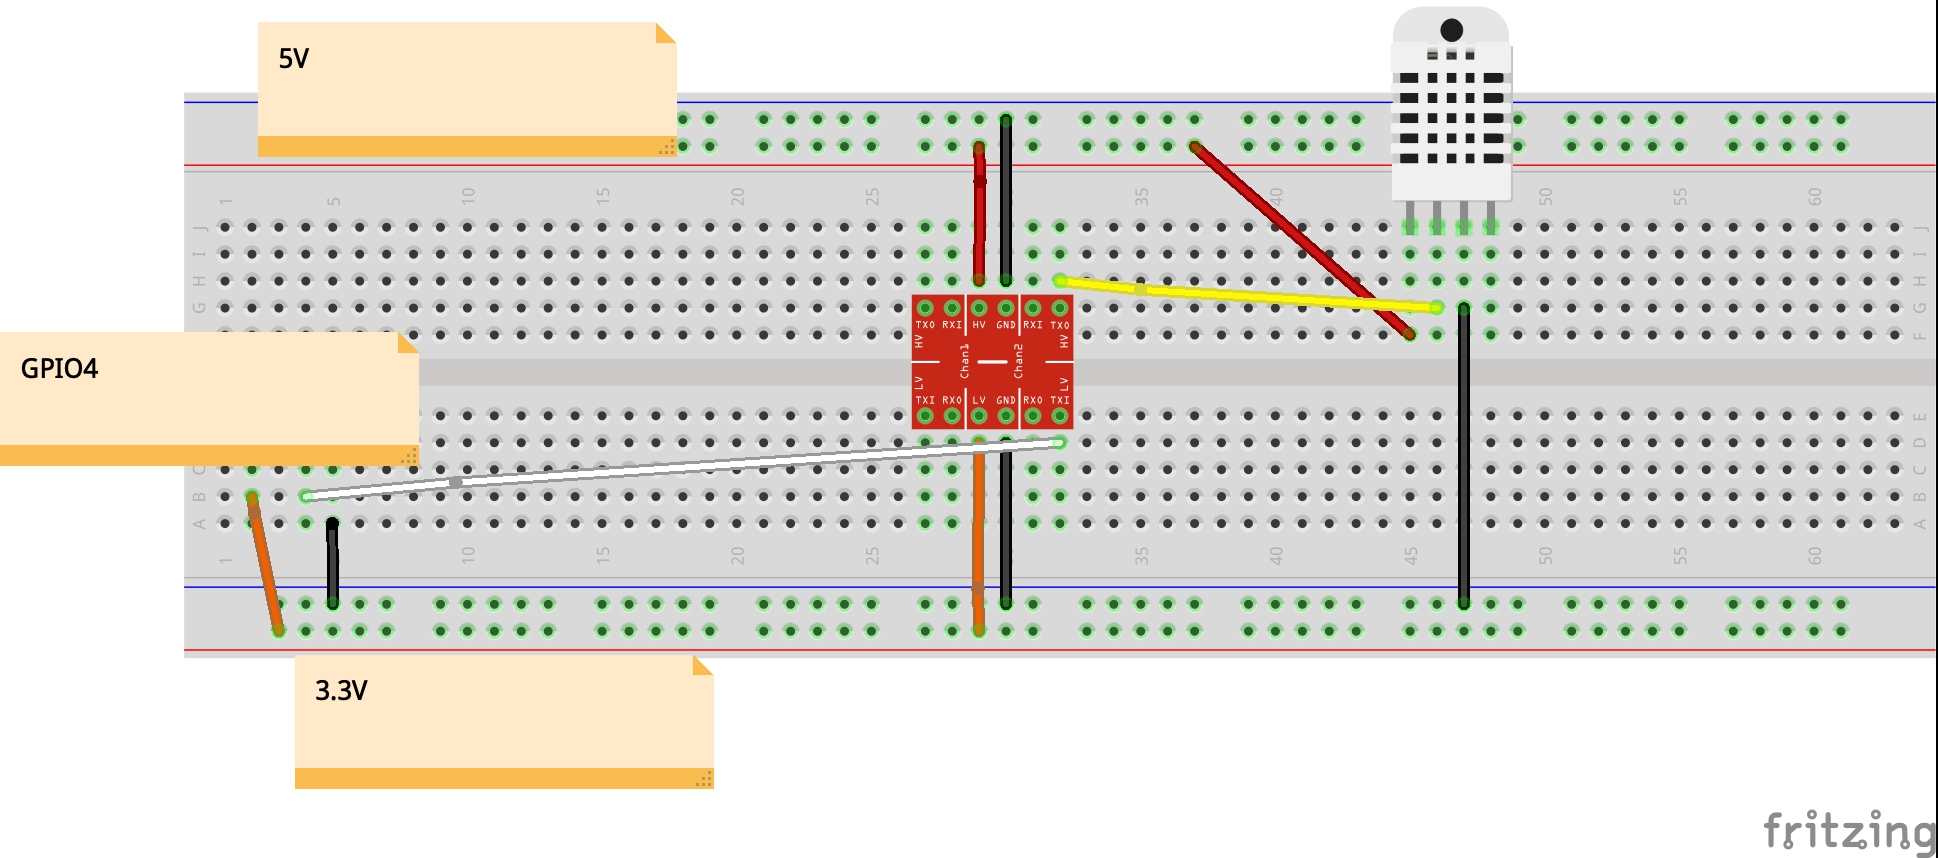
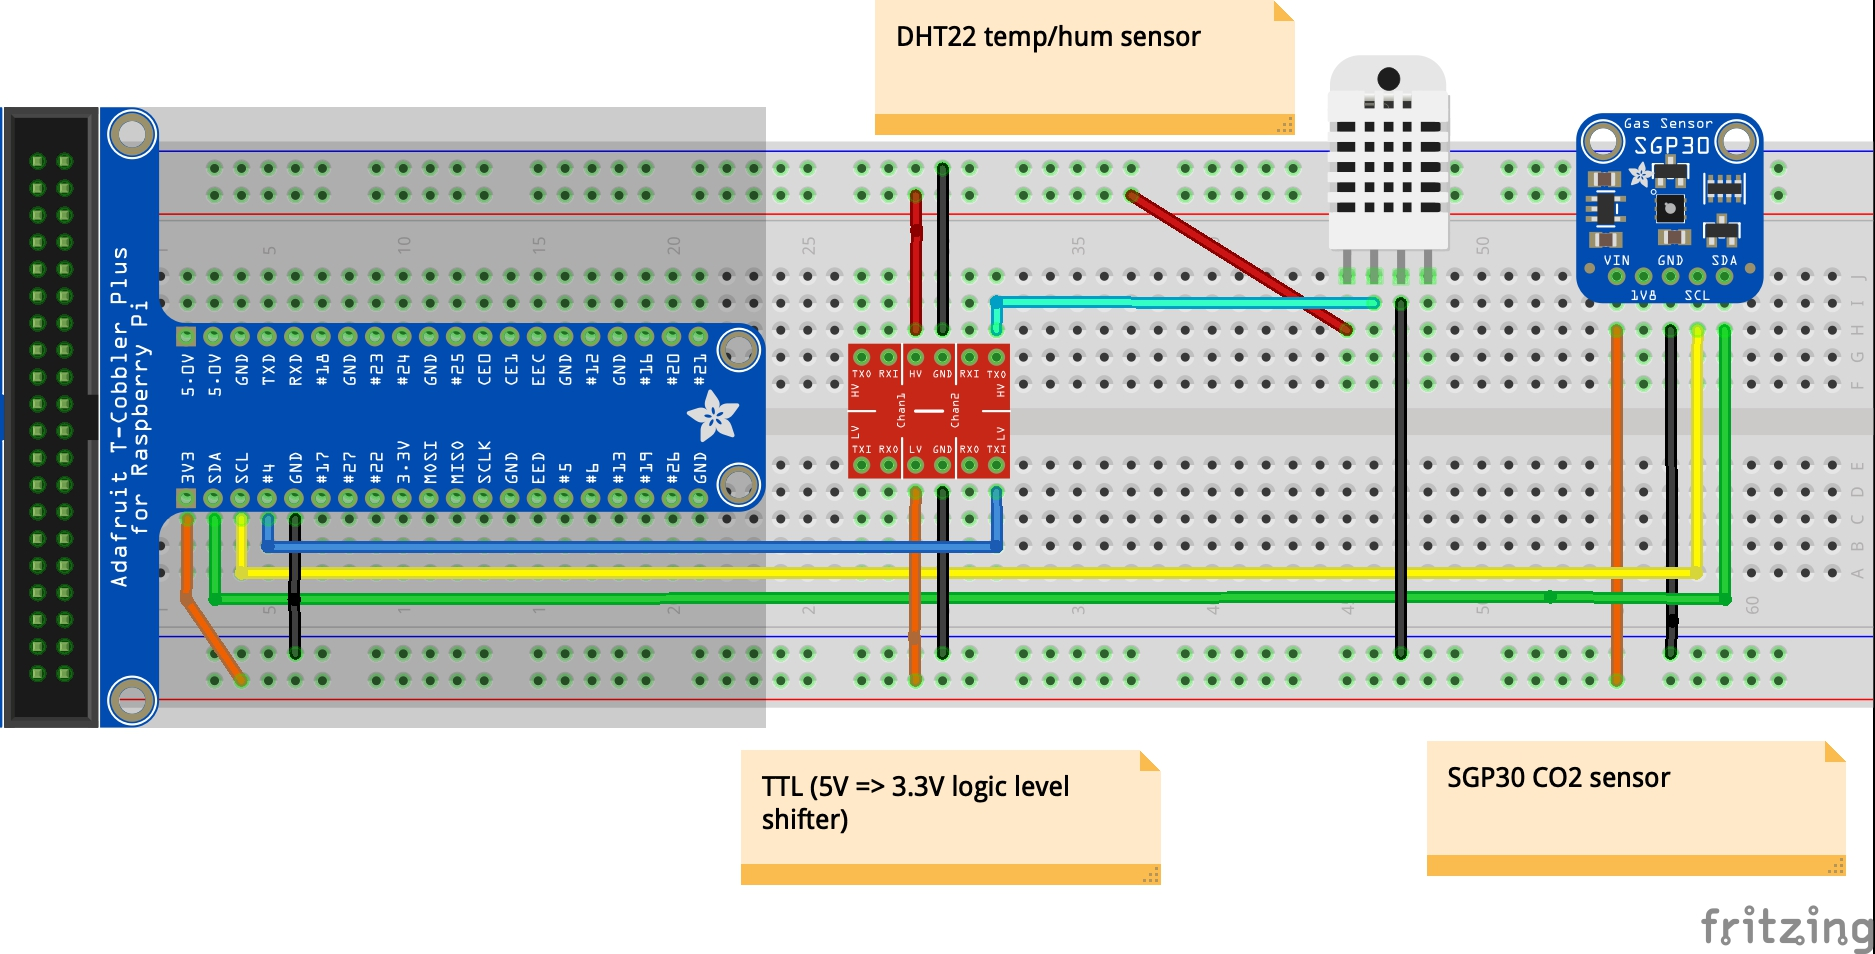
:art: upgrading

diff --git a/README.md b/README.md
@@ -16,7 +16,7 @@ NB2. I have had no success getting python 3.7 on a pi 3. So this is all 3.6.
 # Setup
 
 Fresh microSD card: `Raspbian Buster with desktop and recommended software` installed with `BalenaEtcher.app`.
-Pi with LCD: start-up, set wifi and activate ssh in `preferences/interface`.
+Pi with LCD: start-up, set wifi and activate ssh in `preferences/interface` along with I2C.
 
 
 ## Conda
@@ -152,7 +152,11 @@ If I am using apache2.
 
 # Wiring
 GPIO 4 is #7. 
-3.3V. On upgrade I'll use a level shifter and use the 5V.
+DHT22 works fine with 3.3V but seemed to glitch once or twice, so added TLL.
+
+
+![wiring.jpg](wiring.jpg)
+
 
 # Software upgrades
 
@@ -164,8 +168,6 @@ There is a silliness.
 # Hardware upgrades
 
 I am going to switching to Adafruit DHR_22 and SGP30 Air Quality Sensor in order to get better temperature readings and CO2 levels. I could add a barometer and I think I have one. I have a MQ-2 gas sensor (organics), but I am not sure I need a methane sensor.
-
-
 
 
 I technically have a AM3202, not a DHT22. It accepts 3.3V, is it better with 5V? I think so.
